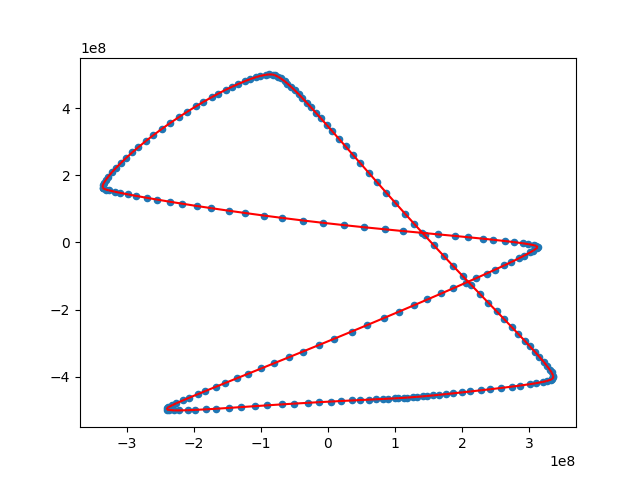
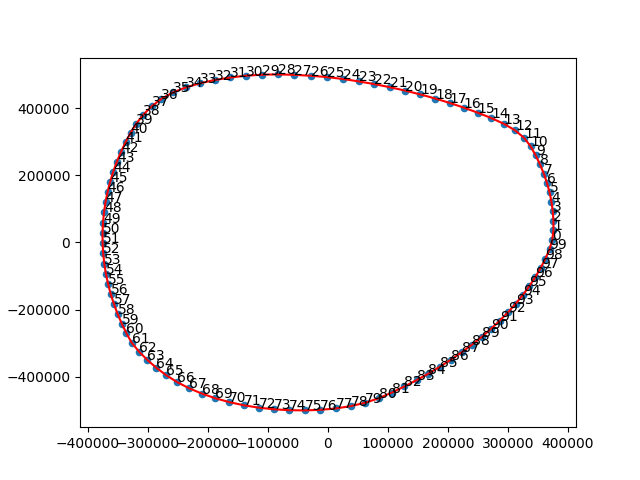
change constant k to sqrt(N)

diff --git a/src/fruchterman_reingold.cpp b/src/fruchterman_reingold.cpp
@@ -17,7 +17,7 @@ void FruchtermanReingold::genInitPos(std::vector<Point> &Positions) const {
   }
 }
 
-void FruchtermanReingold::ScalePos(std::vector<Point> &Positions) const {
+void FruchtermanReingold::scalePos(std::vector<Point> &Positions) const {
   const double W = getWidth();
   const double H = getHeight();
   double MinX = W;
@@ -47,7 +47,7 @@ void FruchtermanReingold::ScalePos(std::vector<Point> &Positions) const {
 
 std::vector<Point> FruchtermanReingold::genPosition() {
   const int N = getNumNode();
-  const double K = 1.5;
+  const double K = std::max(1.5, sqrt(N));
   double T = InitTemp;
   std::vector<Point> Positions(N);
   genInitPos(Positions);
@@ -89,6 +89,6 @@ std::vector<Point> FruchtermanReingold::genPosition() {
     // Reduce temperature T
     T = std::max(MinTemp, T * Delta);
   }
-  ScalePos(Positions);
+  scalePos(Positions);
   return Positions;
 }

diff --git a/src/fruchterman_reingold.hpp b/src/fruchterman_reingold.hpp
@@ -22,12 +22,11 @@ private:
   }
   void genInitPos(std::vector<Point> &Positions) const;
 
-  void ScalePos(std::vector<Point> &Positions) const;
+  void scalePos(std::vector<Point> &Positions) const;
 
 public:
-  FruchtermanReingold(const std::vector<std::vector<int>> &Graph,
-                      double Width = 1e9, double Height = 1e9,
-                      int NumIter = 1000, double InitTemp = 5e3,
+  FruchtermanReingold(const std::vector<std::vector<int>> &Graph, double Width,
+                      double Height, int NumIter = 1000, double InitTemp = 5e3,
                       double MinTemp = 1.0, double Delta = 0.95)
       : Graph(Graph), Width(Width), Height(Height), NumIter(NumIter),
         InitTemp(InitTemp), MinTemp(MinTemp), Delta(Delta) {}

diff --git a/src/main.cpp b/src/main.cpp
@@ -14,7 +14,7 @@ int main() {
     Graph[a].emplace_back(b);
     Graph[b].emplace_back(a);
   }
-  FruchtermanReingold FR(Graph);
+  FruchtermanReingold FR(Graph, NumNode * 1e4, NumNode * 1e4);
   auto Positions = FR.genPosition();
   for (auto P : Positions) {
     std::cout << (int)P.x << ' ' << (int)P.y << '\n';

diff --git a/README.md b/README.md
@@ -50,7 +50,9 @@ am bm
 | 6 | Bamboo | ![](./image/6.png) |
 | 7 | $K_5$ | ![](./image/9.png) |
 | 8 | 100 isolated nodes | ![](./image/10.png) |
-| 9 | Grid | ![](./image/12.png) |
-| 10 | Caterpillar tree | ![](./image/13.png) |
-| 11 | $C_{200}$ | ![](./image/15.png) |
+| 9 | Grid | ![](./image/11.png) |
+| 10 | Grid | ![](./image/12.png) |
+| 11 | Caterpillar tree | ![](./image/13.png) |
+| 12 | 5-regular | ![](./image/14.png) |
+| 13 | $C_{200}$ | ![](./image/15.png) |
 
